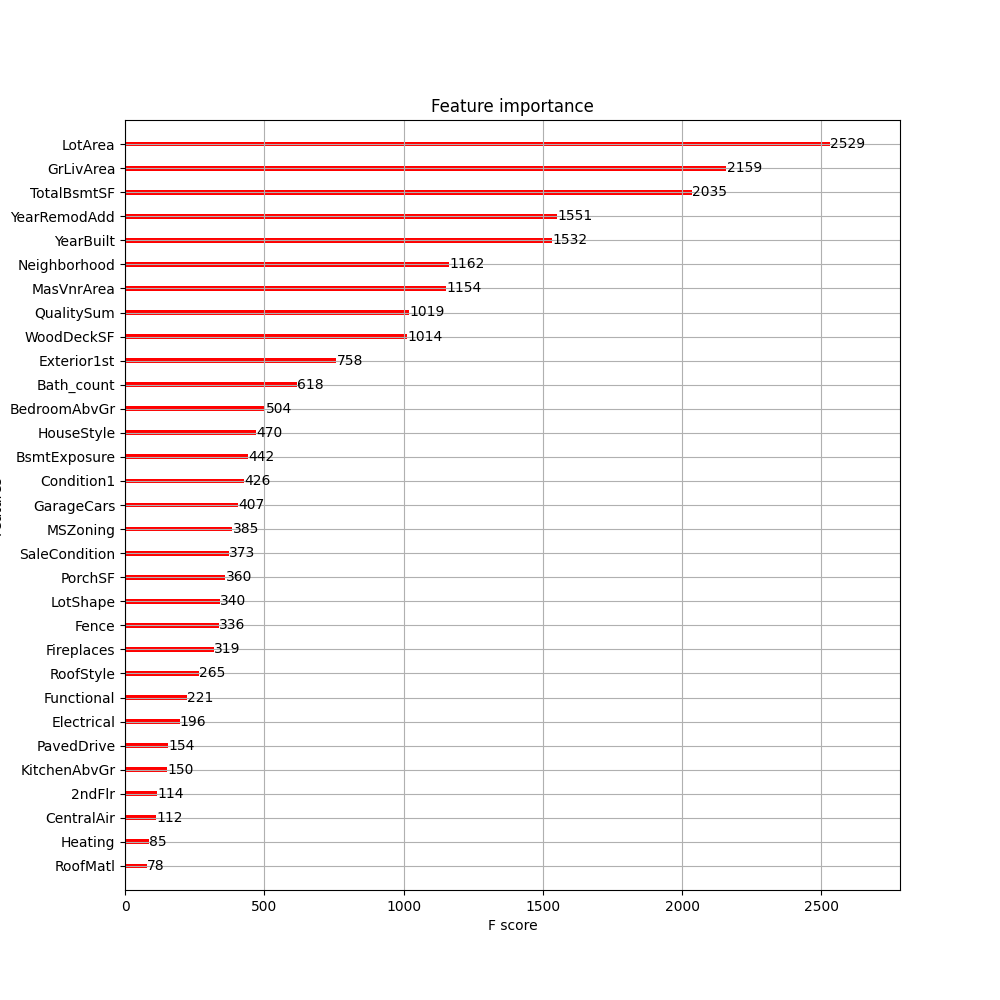
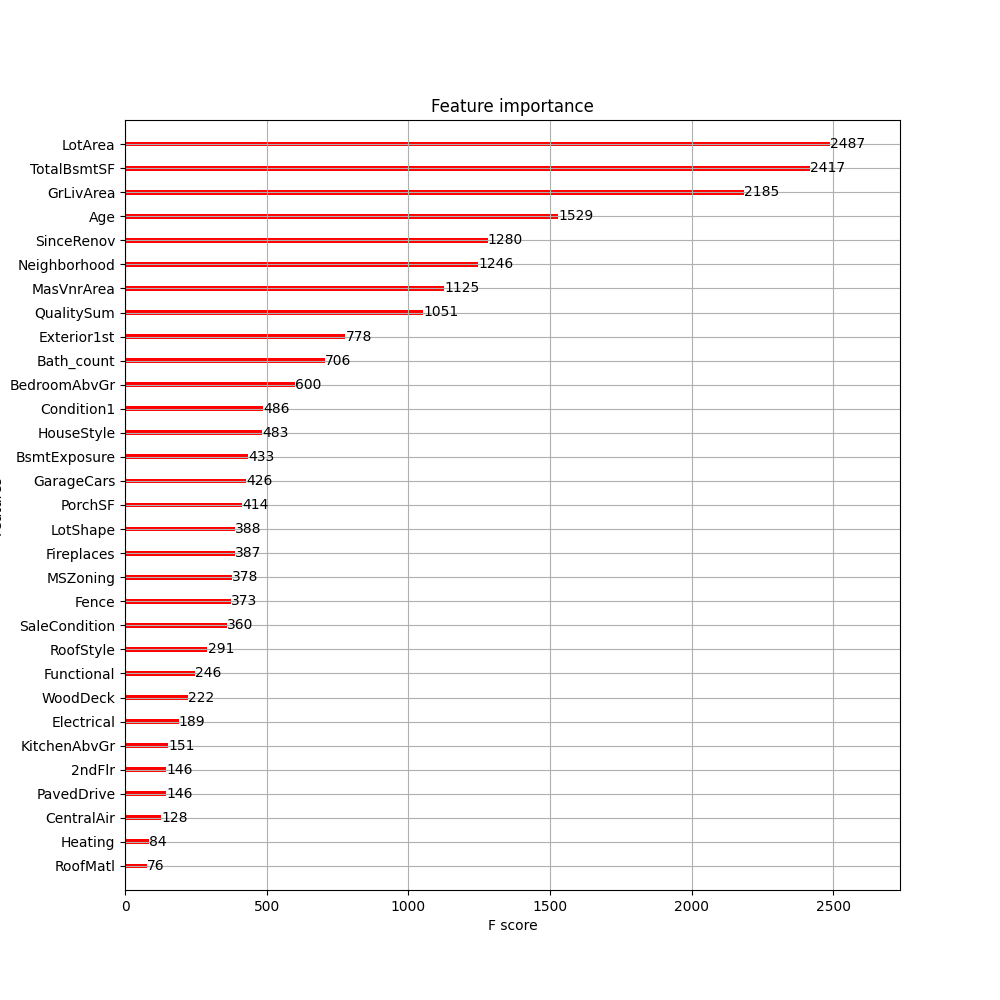
Features

diff --git a/train.py b/train.py
@@ -66,13 +66,13 @@ print(combine_data.groupby('MasVnrType', as_index=False)['OverallQual'].mean())
 
 numeric_list = ['Alley','Street','MiscFeature','Pool','2ndFlr']
 encode_list = ['GarageQual','GarageCond','GarageFinish','GarageType','Heating','HeatingQC','CentralAir','ExterCond','ExterQual','MSZoning','BsmtQual','BsmtCond','BsmtExposure','BsmtFinType1','BsmtFinType2','Foundation','PavedDrive','Functional','Electrical','SaleType','SaleCondition','Fence','FireplaceQu','KitchenQual','LotConfig','LandSlope','Neighborhood','LandContour','LotShape','Condition1','Condition2','BldgType','HouseStyle','RoofStyle','RoofMatl','Exterior1st','Exterior2nd','MasVnrType']
-drop_list_columns = ['Utilities','PoolArea','MasVnrType','TotRmsAbvGrd','Condition2','LandContour','Id','MiscVal','YrSold','LowQualFinSF','BsmtFinType1','BsmtFinType2','Street','MoSold','LandSlope','Exterior2nd','Foundation','SaleType','LotConfig','2ndBsmtFlr','1stFlrSF','2ndFlrSF','BsmtFinSF1','OverallQual']
-quantile_list = ['SalePrice','LotArea','LotFrontage','YearBuilt','GrLivArea','TotalBsmtSF','GrLivArea','MasVnrArea','BsmtUnfSF','BsmtFinSF1','BsmtFinSF2','1stFlrSF','2ndFlrSF','GarageArea','WoodDeckSF','PorchSF','QualitySum','OverallQual']
+drop_list_columns = ['Utilities','PoolArea','TotRmsAbvGrd','Condition2','LandContour','Id','MiscVal','YrSold','LowQualFinSF','BsmtFinType1','BsmtFinType2','Street','MoSold','LandSlope','Exterior2nd','Foundation','SaleType','2ndBsmtFlr','1stFlrSF','2ndFlrSF','BsmtFinSF1','OverallQual','YearBuilt','YearRemodAdd']
+quantile_list = ['SalePrice','LotArea','LotFrontage','Age','GrLivArea','TotalBsmtSF','GrLivArea','MasVnrArea','BsmtUnfSF','BsmtFinSF1','BsmtFinSF2','1stFlrSF','2ndFlrSF','GarageArea','PorchSF','QualitySum','OverallQual','SinceRenov']
 garage_list = ['GarageType','GarageYrBlt','GarageFinish','GarageQual','GarageCond','GarageArea']
 quality_sum_list =['ExterQual','ExterCond','BsmtQual','BsmtCond','HeatingQC','KitchenQual','FireplaceQu','GarageQual','GarageCond','PoolQC']
 bath_list = ['BsmtFullBath','BsmtHalfBath','FullBath','HalfBath']
 bmst_list = ['BsmtQual','BsmtCond','BsmtExposure','BsmtFinType1','BsmtFinType2','BsmtUnfSF','BsmtFinSF1']
-porch_list = ['OpenPorchSF','ScreenPorch','EnclosedPorch','3SsnPorch']
+porch_list = ['OpenPorchSF','ScreenPorch','EnclosedPorch','3SsnPorch','WoodDeckSF']
 
 ####feature engineering; fill missing values
 
@@ -172,10 +172,15 @@ for i in data:
 				i.at[k, 'QualitySum'] += 1
 		if i.at[k, 'TotalBsmtSF'] > 0:
 			i.at[k, 'BsmtUnfSF'] =  i.at[k, 'BsmtUnfSF']/i.at[k, 'TotalBsmtSF']
-		i.at[k, 'YearRemodAdd'] = i.at[k, 'YrSold'] - i.at[k, 'YearRemodAdd']		
-		i.at[k, 'PorchSF'] = i.at[k, 'OpenPorchSF'] + i.at[k, 'EnclosedPorch'] + i.at[k, '3SsnPorch'] + i.at[k, 'ScreenPorch']
+		i.at[k, 'SinceRenov'] = i.at[k, 'YrSold'] - i.at[k, 'YearRemodAdd']	
+		i.at[k, 'Age'] = i.at[k, 'YrSold'] - i.at[k, 'YearBuilt']	
+		i.at[k, 'PorchSF'] = i.at[k, 'OpenPorchSF'] + i.at[k, 'EnclosedPorch'] + i.at[k, '3SsnPorch'] + i.at[k, 'ScreenPorch'] + i.at[k, 'WoodDeckSF']
 		i.at[k, 'Bath_count'] = i.at[k, 'BsmtFullBath'] + i.at[k, 'FullBath'] + 0.5*i.at[k, 'BsmtHalfBath'] + 0.5*i.at[k, 'HalfBath']
 		i.at[k, 'LotFrontage'] = i.at[k, 'LotFrontage'] / np.sqrt(i.at[k,"LotArea"])
+		if i.at[k, 'WoodDeckSF'] > 0:
+			i.at[k, 'WoodDeck'] = 1
+		else:
+			i.at[k, 'WoodDeck'] = 0
 		if pd.isna(i.at[k, 'MSZoning']): #####fill missing values based on 
 			i.at[k, 'MSZoning'] = 'C (all)'
 			if i.loc[k,'YearBuilt'] > 1938:
@@ -200,13 +205,21 @@ list_empty=train.columns[train.isnull().any()].tolist()
 missing = []
 for i in list_empty:
 	missing.append([i,train[i].isnull().sum()])
-print(missing)
+if missing:
+	print('Some values in the training set are still missing!')
+	print(missing)
+else:
+	print('No missing values in the training set left!')
 
 list_empty=test.columns[test.isnull().any()].tolist()
 missing = []
 for i in list_empty:
 	missing.append([i,test[i].isnull().sum()])
-print(missing)
+if missing:
+	print('Some values in the test set are still missing!')
+	print(missing)
+else:
+	print('No missing values in the test set left!')
 
 ####Correlation Matrix
 trainMatrix = train.corr()
@@ -256,10 +269,14 @@ for i in data:
 			i.drop(col, axis=1, inplace=True)
 
 ###remove columns with low correlation to price
+drop_cutoff = []
 for col in train.columns:
 	if np.sqrt((train['SalePrice'].corr(train[col]))**2) < 0.1:
+		drop_cutoff.append([col, train['SalePrice'].corr(train[col])])
 		train.drop(col, axis=1, inplace=True)
 		test.drop(col, axis=1, inplace=True)
+print('The following features were dropped due to low correlation:')
+print(drop_cutoff)
 
 ###plot new distributions
 f, ax = plt.subplots(8, 7, figsize=(40, 40))
